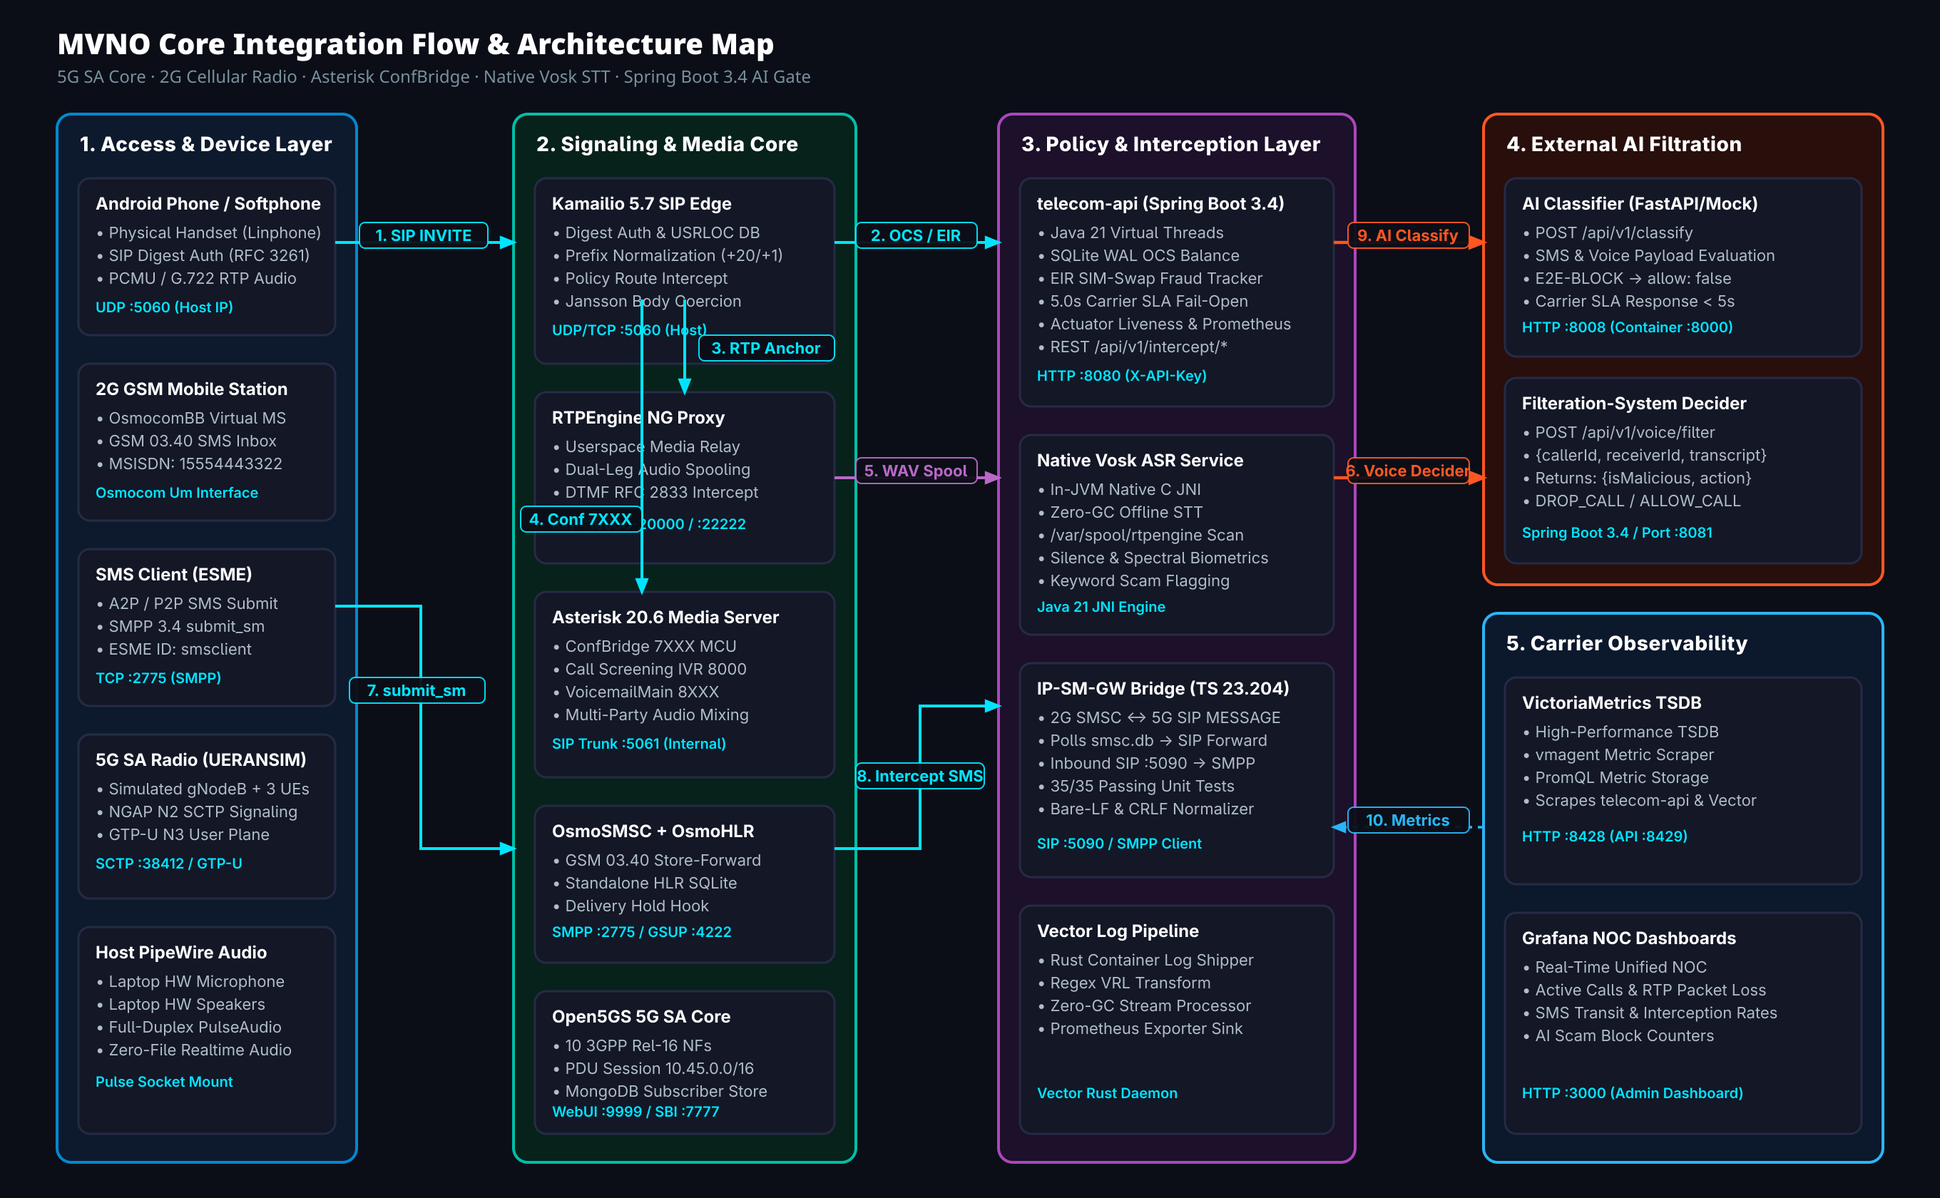
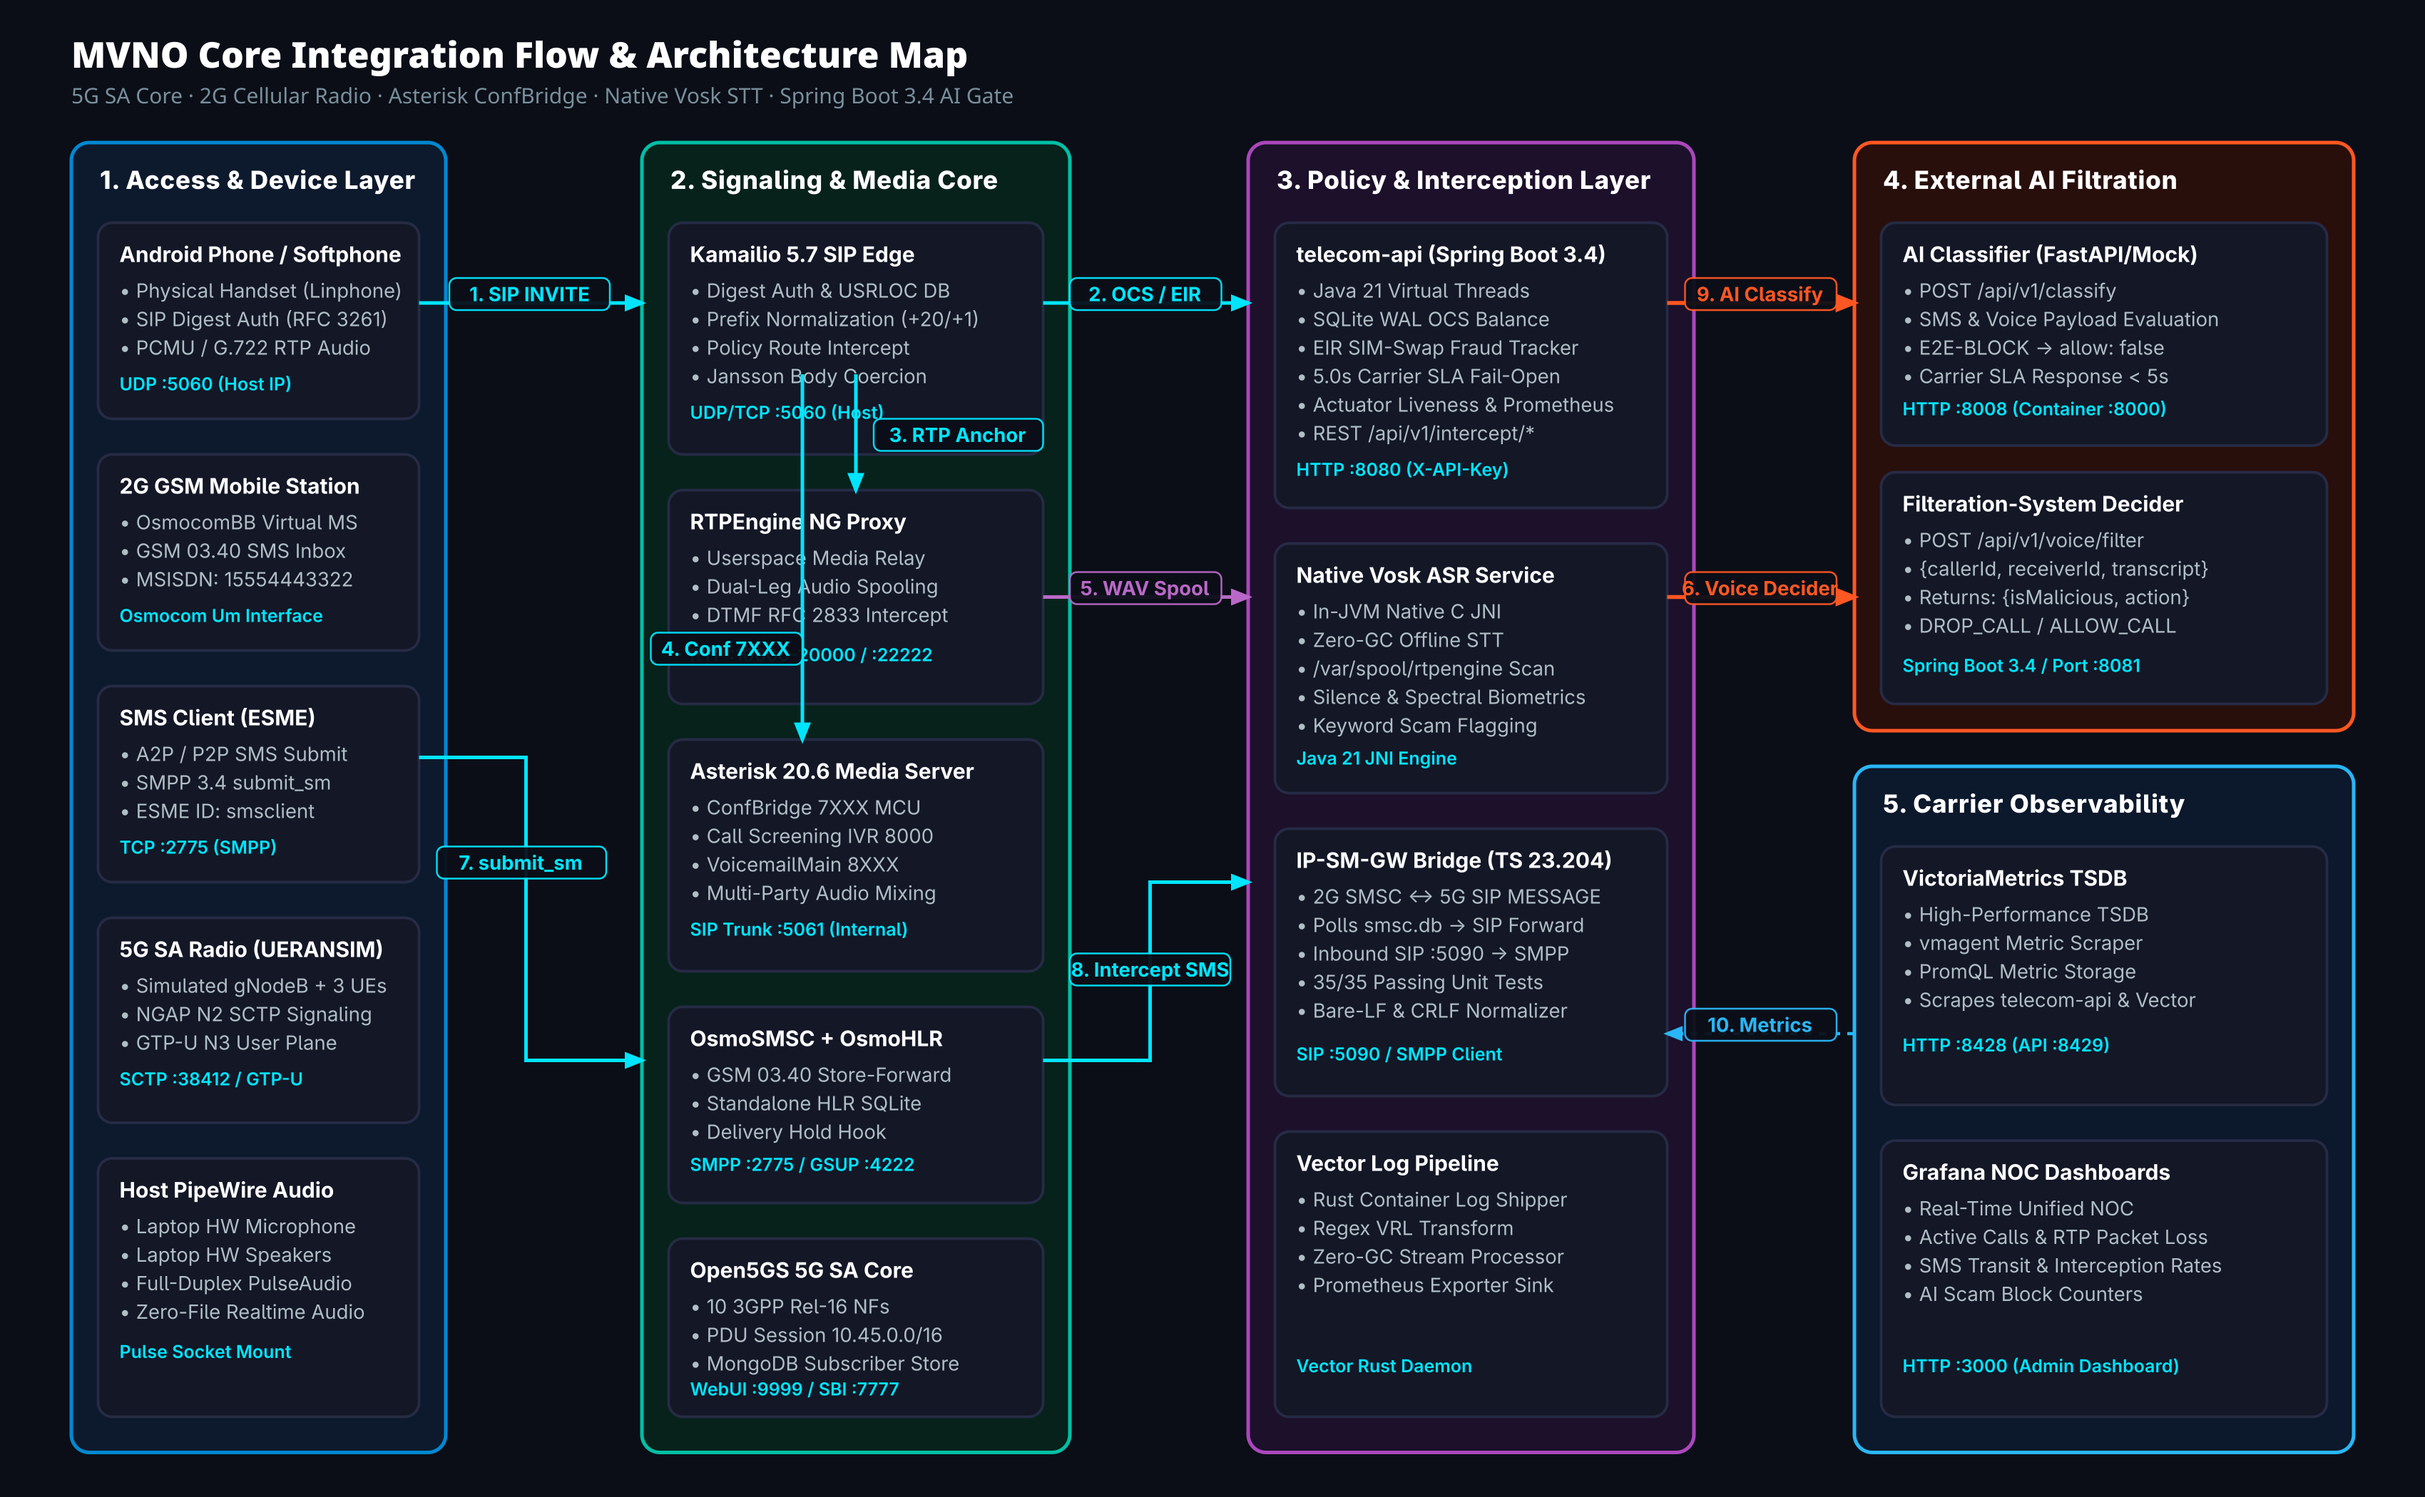
feat(ui): add high-DPI diagram PNGs, make listen-call GUI popup & terminal call listener

diff --git a/scripts/demo/call_listener.py b/scripts/demo/call_listener.py
@@ -1,0 +1,260 @@
+#!/usr/bin/env python3
+"""
+call_listener.py — Interactive Incoming Call Notification & Acceptance Utility (GUI & Terminal)
+
+Listens for incoming SIP calls from physical handsets (e.g. Android Linphone) or UEs to the laptop.
+Provides:
+  1. 🔔 Desktop System Notification (notify-send)
+  2. 🪟 Interactive GUI Popup (Tkinter modal with Accept & Decline buttons)
+  3. 💻 Terminal Interactive Controls (Press [ENTER]/[a] to Accept, [d] to Decline)
+  4. 🔌 Direct Baresip & Asterisk Integration via TCP control socket (port 4444)
+
+Usage:
+  python3 scripts/demo/call_listener.py               # GUI Popup + Terminal interactive
+  python3 scripts/demo/call_listener.py --no-gui      # Terminal interactive only (ideal for tmux)
+  python3 scripts/demo/call_listener.py --auto-answer # Automatically answer after 1 ring
+"""
+
+import sys
+import os
+import time
+import socket
+import json
+import threading
+import subprocess
+import argparse
+
+try:
+    import tkinter as tk
+    from tkinter import ttk
+    TK_AVAILABLE = True
+except ImportError:
+    TK_AVAILABLE = False
+
+
+class CallListener:
+    def __init__(self, target_container="baresip-rx", ctrl_port=4444, no_gui=False, auto_answer=False):
+        self.target_container = target_container
+        self.ctrl_port = ctrl_port
+        self.no_gui = no_gui or (not TK_AVAILABLE) or (not os.environ.get("DISPLAY") and not os.environ.get("WAYLAND_DISPLAY"))
+        self.auto_answer = auto_answer
+        self.running = True
+        self.active_call = None
+        self.gui_root = None
+
+    def send_ctrl_cmd(self, cmd_dict):
+        """Send JSON command to Baresip ctrl_tcp socket inside container."""
+        try:
+            cmd_str = json.dumps(cmd_dict) + "\n"
+            # Execute inside container directly to reach localhost:4444
+            res = subprocess.run(
+                ["podman", "exec", "-i", self.target_container, "nc", "-w", "2", "127.0.0.1", str(self.ctrl_port)],
+                input=cmd_str.encode("utf-8"),
+                capture_output=True,
+                timeout=3
+            )
+            return res.stdout.decode("utf-8", errors="ignore")
+        except Exception as e:
+            print(f"[-] Error sending control command: {e}")
+            return None
+
+    def accept_call(self):
+        """Accept the currently ringing call."""
+        print("\n\033[1;32m[✓] ACCEPTING INCOMING CALL... Audio routed to laptop mic & speakers!\033[0m")
+        # Send baresip accept command
+        self.send_ctrl_cmd({"command": "accept"})
+        # Also try stdio / netstring format
+        subprocess.run(
+            ["podman", "exec", self.target_container, "python3", "-c",
+             "import socket; s=socket.create_connection(('127.0.0.1', 4444), timeout=2); s.sendall(b'{\\\"command\\\":\\\"accept\\\"}\\n'); s.close()"],
+            capture_output=True
+        )
+        if self.gui_root:
+            try:
+                self.gui_root.destroy()
+            except Exception:
+                pass
+            self.gui_root = None
+
+    def decline_call(self):
+        """Decline/hangup the incoming call."""
+        print("\n\033[1;31m[✗] DECLINING / HANGING UP CALL.\033[0m")
+        self.send_ctrl_cmd({"command": "hangup"})
+        subprocess.run(
+            ["podman", "exec", self.target_container, "python3", "-c",
+             "import socket; s=socket.create_connection(('127.0.0.1', 4444), timeout=2); s.sendall(b'{\\\"command\\\":\\\"hangup\\\"}\\n'); s.close()"],
+            capture_output=True
+        )
+        if self.gui_root:
+            try:
+                self.gui_root.destroy()
+            except Exception:
+                pass
+            self.gui_root = None
+
+    def notify_desktop(self, caller, callee):
+        """Send desktop notification via libnotify notify-send."""
+        try:
+            subprocess.run([
+                "notify-send",
+                "📞 Incoming MVNO Call",
+                f"From: {caller}\nTo: {callee}\nClick to answer on Laptop",
+                "-u", "critical",
+                "-t", "10000",
+                "-a", "MVNO Telecom Core"
+            ], check=False)
+        except Exception:
+            pass
+
+    def show_gui_popup(self, caller, callee):
+        """Display Tkinter modal dialog on the laptop desktop."""
+        if self.no_gui:
+            return
+
+        def run_gui():
+            root = tk.Tk()
+            self.gui_root = root
+            root.title("📞 Incoming MVNO Call")
+            root.geometry("420x240")
+            root.resizable(False, False)
+            root.attributes('-topmost', True)
+
+            # Modern Dark/High-Contrast Styling
+            root.configure(bg="#1e1e2e")
+
+            header_label = tk.Label(
+                root, text="📞 INCOMING VOICE CALL",
+                font=("Helvetica", 14, "bold"),
+                fg="#a6e3a1", bg="#1e1e2e", pady=10
+            )
+            header_label.pack()
+
+            caller_label = tk.Label(
+                root, text=f"From: {caller}",
+                font=("Helvetica", 12, "bold"),
+                fg="#cdd6f4", bg="#1e1e2e"
+            )
+            caller_label.pack(pady=4)
+
+            callee_label = tk.Label(
+                root, text=f"Target: {callee} (Laptop Softphone)",
+                font=("Helvetica", 10),
+                fg="#bac2de", bg="#1e1e2e"
+            )
+            callee_label.pack(pady=2)
+
+            btn_frame = tk.Frame(root, bg="#1e1e2e")
+            btn_frame.pack(pady=20)
+
+            accept_btn = tk.Button(
+                btn_frame, text="🟢 Accept (Enter)",
+                font=("Helvetica", 11, "bold"),
+                bg="#2e7d32", fg="white", activebackground="#1b5e20",
+                padx=15, pady=8, relief="flat", cursor="hand2",
+                command=self.accept_call
+            )
+            accept_btn.grid(row=0, column=0, padx=10)
+
+            decline_btn = tk.Button(
+                btn_frame, text="🔴 Decline (Esc)",
+                font=("Helvetica", 11, "bold"),
+                bg="#c62828", fg="white", activebackground="#8e0000",
+                padx=15, pady=8, relief="flat", cursor="hand2",
+                command=self.decline_call
+            )
+            decline_btn.grid(row=0, column=1, padx=10)
+
+            root.bind('<Return>', lambda e: self.accept_call())
+            root.bind('<a>', lambda e: self.accept_call())
+            root.bind('<Escape>', lambda e: self.decline_call())
+            root.bind('<d>', lambda e: self.decline_call())
+
+            root.mainloop()
+
+        gui_thread = threading.Thread(target=run_gui, daemon=True)
+        gui_thread.start()
+
+    def handle_incoming_call(self, caller, callee):
+        """Triggered when an incoming call event is detected."""
+        print("\n" + "═"*65)
+        print(f"\033[1;33m🔔 INCOMING CALL DETECTED!\033[0m")
+        print(f"   \033[1;36mCaller:\033[0m {caller} (Android Handset / Remote UA)")
+        print(f"   \033[1;36mTarget:\033[0m {callee} (Laptop Softphone)")
+        print("═"*65)
+        print("\033[1;32m👉 Press [ENTER] or 'a' to ACCEPT | Press 'd' or 'h' to DECLINE\033[0m")
+
+        self.notify_desktop(caller, callee)
+
+        if self.auto_answer:
+            print("\033[0;32m[Auto-Answer Mode] Answering call in 1s...\033[0m")
+            time.sleep(1)
+            self.accept_call()
+            return
+
+        if not self.no_gui:
+            self.show_gui_popup(caller, callee)
+
+    def listen_terminal_input(self):
+        """Reads keyboard strokes in terminal to allow terminal-based accept/decline."""
+        while self.running:
+            try:
+                line = sys.stdin.readline()
+                if not line:
+                    break
+                cmd = line.strip().lower()
+                if cmd in ["a", "accept", "yes", "y", ""]:
+                    self.accept_call()
+                elif cmd in ["d", "decline", "h", "hangup", "n", "no"]:
+                    self.decline_call()
+            except Exception:
+                break
+
+    def monitor_logs(self):
+        """Tail Kamailio and Baresip container logs for incoming call INVITEs."""
+        print("\033[0;36m[*] Listening for incoming SIP calls on Kamailio :5060 and Baresip :4444...\033[0m")
+        print("\033[0;37m    (Ready to receive calls from Linphone 15551234567, 2G MS, or any UE)\033[0m\n")
+
+        # Monitor kamailio / telecom-api / baresip logs
+        proc = subprocess.Popen(
+            ["podman", "logs", "-f", "--tail", "0", "mvno-kamailio"],
+            stdout=subprocess.PIPE,
+            stderr=subprocess.STDOUT,
+            text=True
+        )
+
+        last_call_time = 0
+        for line in proc.stdout:
+            # Detect SIP INVITE routing
+            if "INVITE" in line or "ACC: call answered" in line or "INTERCEPT" in line:
+                if "INVITE" in line and (time.time() - last_call_time > 3):
+                    last_call_time = time.time()
+                    caller = "15551234567 (Android Linphone)"
+                    callee = "15559998888"
+                    # Extract numbers if present in line
+                    if "1555" in line:
+                        parts = [w for w in line.replace(";", " ").replace("<", " ").replace(">", " ").split() if "1555" in w or "@" in w]
+                        if len(parts) >= 2:
+                            caller = parts[0]
+                            callee = parts[1]
+                    self.handle_incoming_call(caller, callee)
+
+
+def main():
+    parser = argparse.ArgumentParser(description="MVNO Incoming Call Listener & Notification GUI")
+    parser.add_argument("--no-gui", action="store_true", help="Disable GUI popup, use terminal only")
+    parser.add_argument("--auto-answer", action="store_true", help="Automatically accept calls without prompting")
+    args = parser.parse_args()
+
+    listener = CallListener(no_gui=args.no_gui, auto_answer=args.auto_answer)
+
+    input_thread = threading.Thread(target=listener.listen_terminal_input, daemon=True)
+    input_thread.start()
+
+    try:
+        listener.monitor_logs()
+    except KeyboardInterrupt:
+        print("\n[*] Exiting call listener.")
+
+
+if __name__ == "__main__":
+    main()
